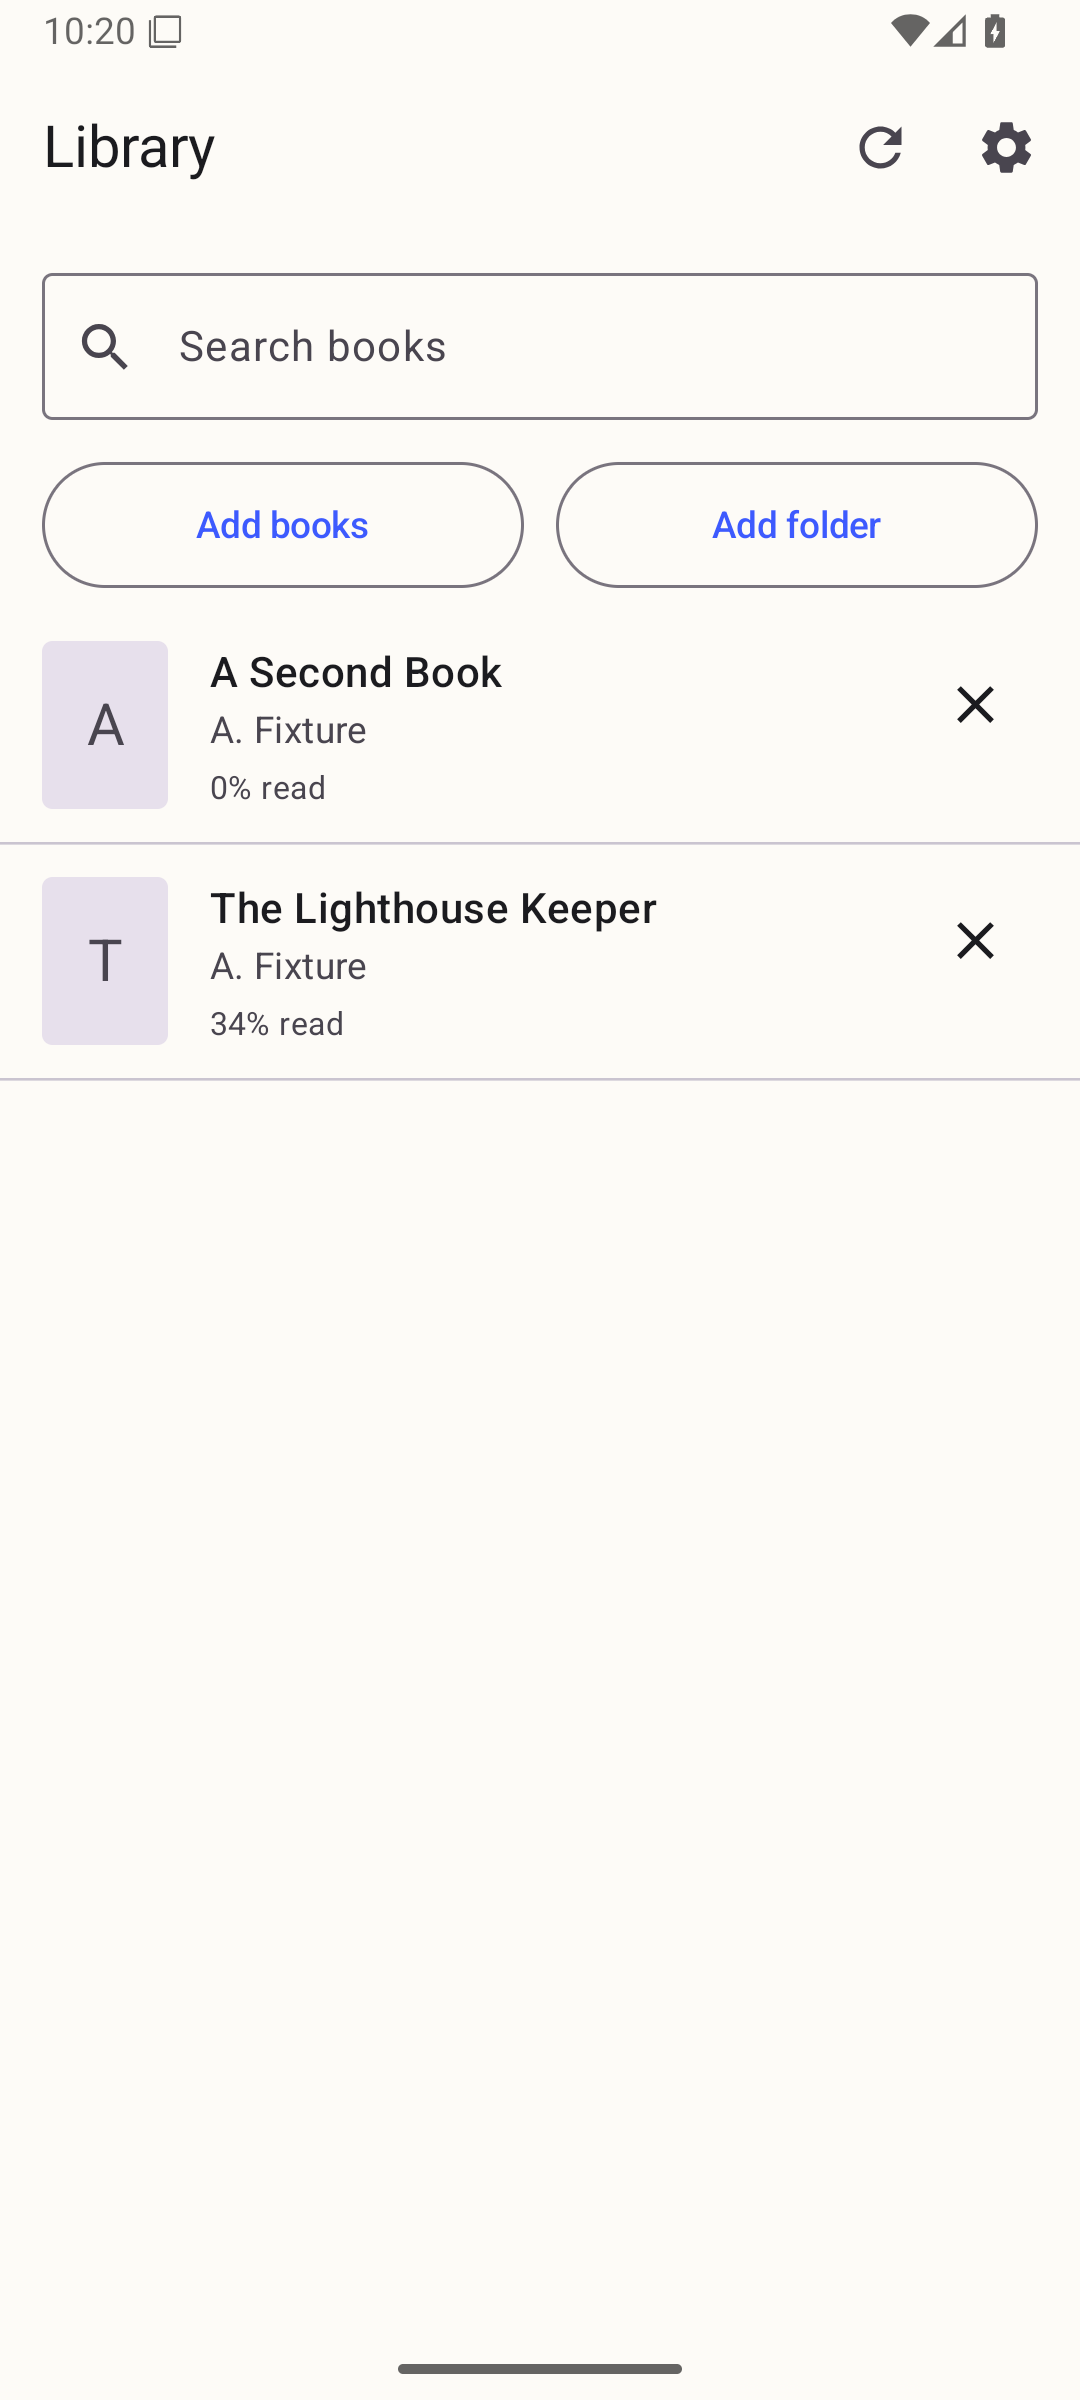
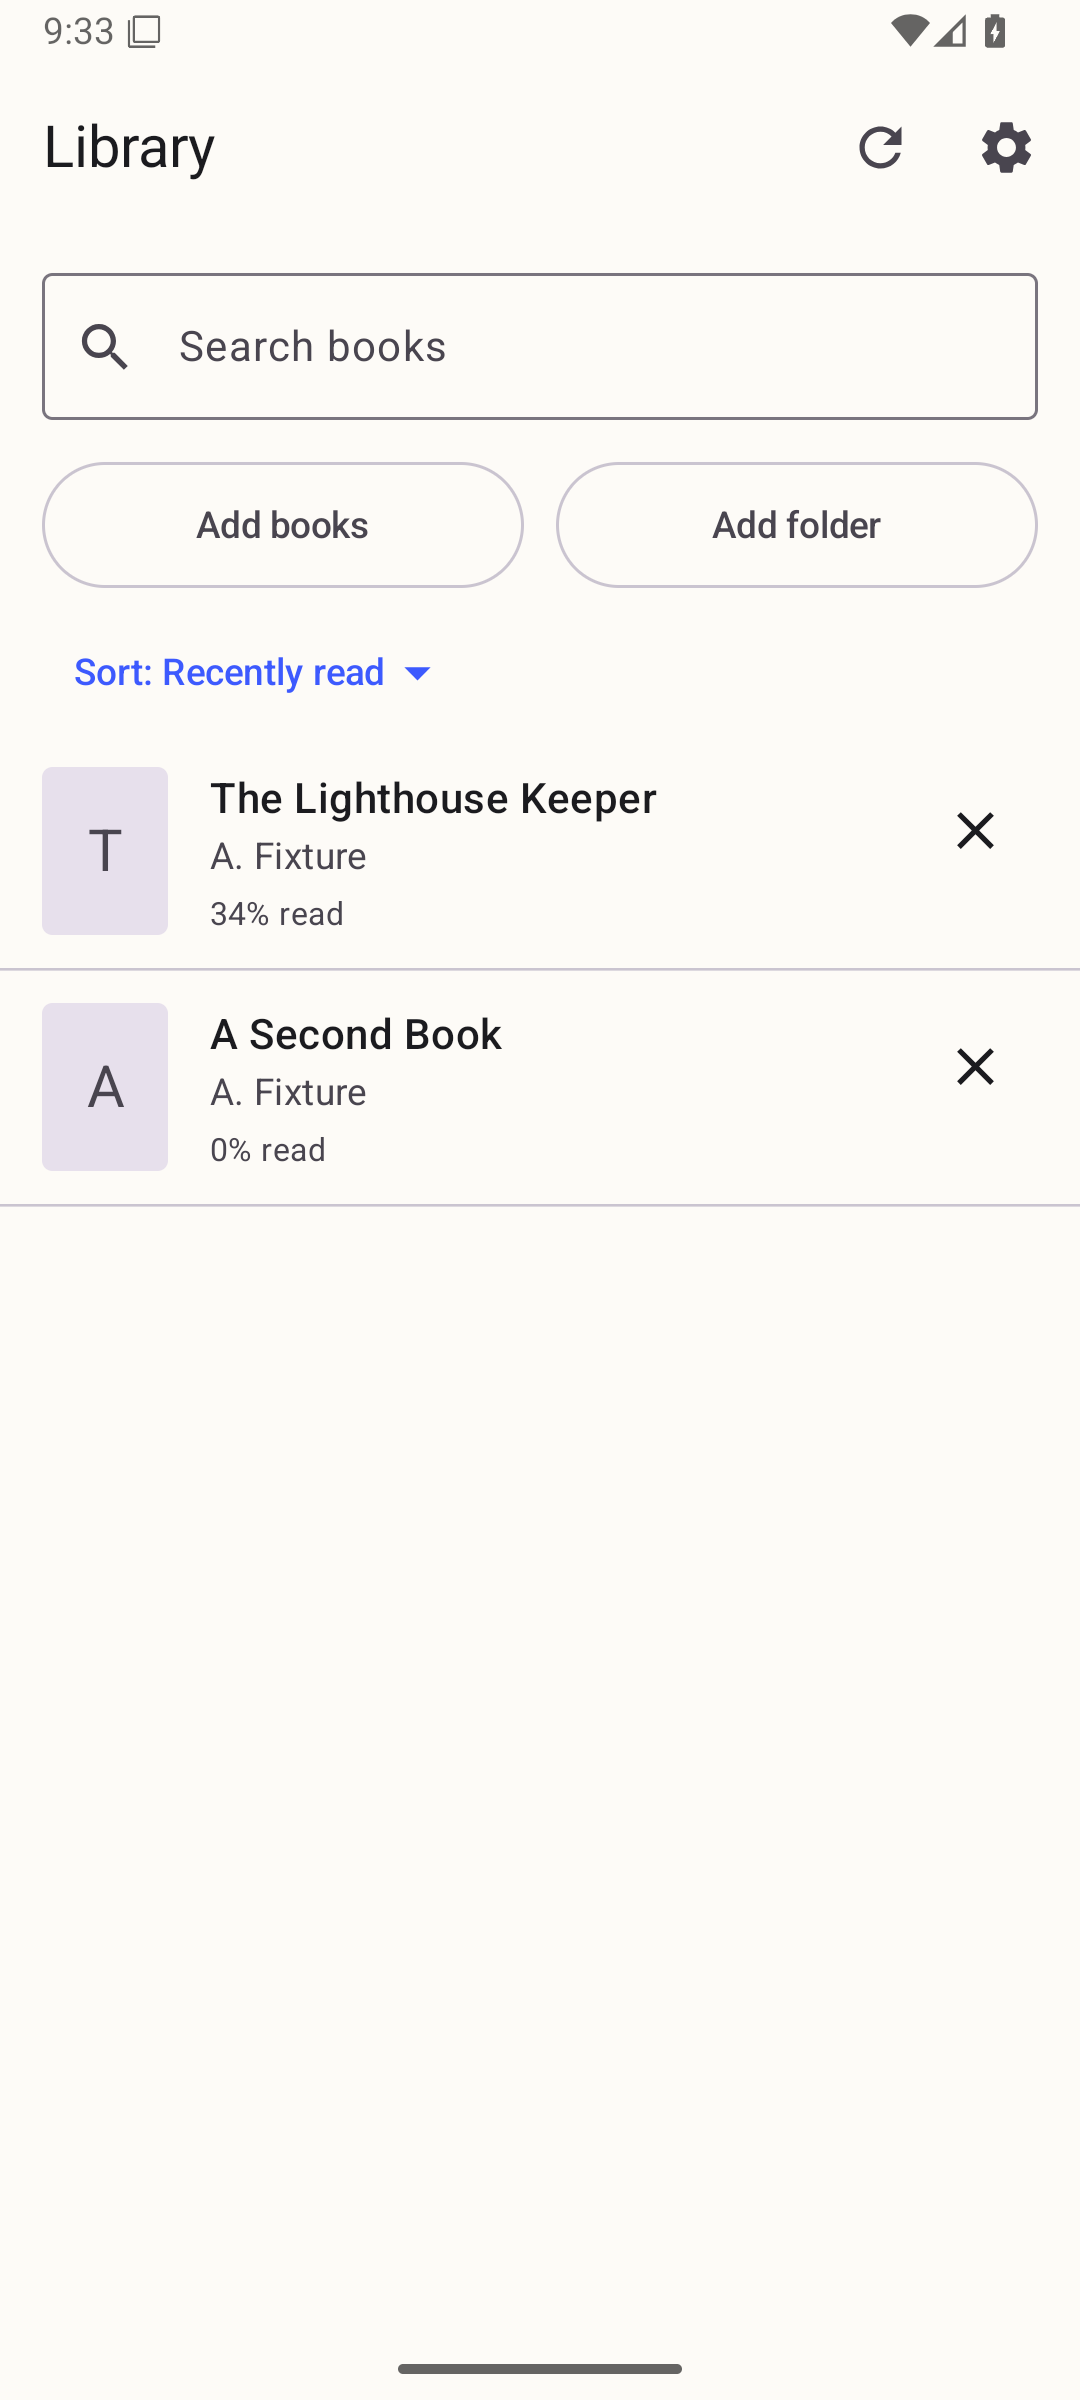
Record the v1.1.0 to v1.2.0 update proof and re-shoot the README
AD-12 on Phone_Mid_API36, from the published v1.1.0 asset to a release-signed
local v1.2.0 built by scripts/release.sh without --publish. A debug build
cannot go over a release-signed install, and there is no published v1.2.0 to
use instead, so this is the closest artifact pair that exists before the merge.

The catalog walks schemaVersion 4 straight to 7 in one load, every setting and
both book ids survive byte-identical, and the two new fields arrive as
"chapterPauseEnabled": true and "libraryOrder": "RECENTLY_READ". The books were
seeded so that title order and recently-added order agree with each other and
disagree with recently-read, so the flipped library is the default doing real
work rather than coinciding with the old order.

The two reader captures differ in 42 of 2400 rows, all of them the status bar
or the gesture bar: every pixel the app draws is unchanged across the update.

docs/screenshots/ re-shot from the v1.2.0 release APK, because the library now
carries a Sort control the v1.1.0 captures could not show.

diff --git a/docs/evidence/56/README.md b/docs/evidence/56/README.md
@@ -1,0 +1,87 @@
+# LEAF607 (#56) — the v1.1.0 → v1.2.0 update proof
+
+Everything here comes from one session on `Phone_Mid_API36` (Android 16 / API
+36, `sdk_gphone64_arm64`, 1080x2400), and from **two real APKs**:
+
+| Side | Artifact |
+| --- | --- |
[2 lines of base64/hex data omitted]
+
+The after side is not the published v1.2.0, because there is no published
+v1.2.0: the collector is unmerged and publishing is the owner's action. It has
+to be release-signed rather than debug, because the published v1.1.0 carries
+the release certificate and a debug APK cannot install over it
+(`INSTALL_FAILED_UPDATE_INCOMPATIBLE`). Same key, same gates, same bytes the
+publish would upload — see the PR's "What is not proven yet".
+
+## The files
+
+| File | What it shows |
+| --- | --- |
+| `01-before-library-v1.1.0-…png` | v1.1.0 seeded: A Second Book 0 %, The Lighthouse Keeper 50 %. **No Sort control** — the library has one fixed order. |
+| `02-before-reader-v1.1.0-…png` | Paused on **He**, violet focus letter, shifted off centre, Chapter Two: The Boat 2 of 3, 50 % read, 250 WPM. |
+| `03-before-settings-cues-v1.1.0-…png` | Dark, Large, Highlight letter on, **Violet**, **Fixed focus letter on**, Guide marks on. |
+| `04-before-settings-rhythm-version-v1.1.0-…png` | Pause strength **Strong**, and `Version 1.1.0 (build 3)`. **No Chapters section.** |
+| `05-after-library-v1.2.0-…png` | The same two books at the same 50 % and 0 %, now **`Sort: Recently read`** and in that order. |
+| `06-after-reader-v1.2.0-…png` | The same word, letter, chapter, percentage and speed, one minute later. |
+| `07-after-settings-cues-v1.2.0-…png` | Every cue setting still where v1.1.0 left it. |
+| `08-after-settings-chapters-v1.2.0-…png` | Strong still selected; the new **Chapters → Pause at chapters** row is **on**; `Version 1.2.0 (build 4)`. |
+| `09-privacy-english-v1.2.0-…png` | The shipping statement, with the crash-report sentence REQ-303 was missing. |
+| `10-privacy-spanish-v1.2.0-…png` | The same statement in Spanish — the copy no gate holds, so it is checked here by eye and by string comparison. |
+| `catalog-before-v1.1.0-…json` | The stored catalog under v1.1.0: `schemaVersion` **4**. |
+| `catalog-after-v1.2.0-…json` | The same catalog after one v1.2.0 load: `schemaVersion` **7**. |
+| `update-in-place-package-state-…txt` | `dumpsys package` either side: unchanged `firstInstallTime`, moved `lastUpdateTime`, new `codePath`, same signer. |
+
+The catalogs were read with `adb root` rather than `run-as`, because both
+builds are release builds and neither is debuggable.
+
+## What the run establishes
+
+**It is an update, not a reinstall.** `firstInstallTime` is the same value on
+both sides while `lastUpdateTime` moves and `codePath` changes, and the signer
+is byte-identical. Nothing was uninstalled and no data was cleared.
+
+**The whole v1.1.0 → v1.2.0 migration chain runs in one load.** The stored
+catalog goes from `schemaVersion` **4** straight to **7**, walking 4 → 5
+(#51's chapter pause), 5 → 6 (#52's library order) and 6 → 7 (#62's structural
+fingerprint) in a single open. #62 proved 4 → 7 resumes; this is the same thing
+with a reader looking at it.
+
+**Nothing the reader chose moved.** Every settings field is identical across
+the two catalogs — `DARK`, `LARGE`, highlight on, focus alignment on, `VIOLET`,
+guide marks on, `STRONG` — as are both book ids, `lastReadBookId`, and the
+reading state's `tokenIndex` 1042, `progressFraction` 0.49952108 and `wpm` 250.
+
+The two reader captures make the same point without a JSON file: they differ in
+**42 of 2400 pixel rows**, and every one of those rows is either the status bar
+(rows 14–47: the clock going 9:25 → 9:26) or the gesture bar (rows 2364–2373).
+Every pixel the app itself draws is unchanged.
+
+**The two new settings arrive at their defaults, not as blanks.** The after
+catalog gains exactly two fields, `"chapterPauseEnabled": true` and
+`"libraryOrder": "RECENTLY_READ"` — which is REQ-208's second clause, and what
+the Chapters row and the `Sort: Recently read` button show on screen.
+
+`libraryOrder` is worth one more sentence, because a default can look right by
+accident. The books were added Lighthouse-first and only Lighthouse was read,
+so title order and recently-added order both put *A Second Book* first — which
+is exactly what v1.1.0 shows. After the update the list is *The Lighthouse
+Keeper* first. That ordering is reachable only from "recently read", so the
+default is doing real work rather than agreeing with the old order by luck.
+
+**#62's fingerprint is written on the first open after the migration, not
+during it.** The migrated reading state carries a new
+`"structuralFingerprint": "zipdir1:bcd1a5bd…"` beside the unchanged
+`bookDigest`, which is AD-18's write-path rule: the migration installs the
+default and the first directory open fills it in. A book only ever gains
+protection.
+
+## What this evidence does not cover
+
+The publish. There is no `v1.2.0` tag, no GitHub Release and no published
+asset, so the four publish-only gates in `scripts/release.sh` — clean tree and
+tag target, tag does not exist, highest published version, and the
+unauthenticated re-download of the uploaded asset — did not run, and the
+"version equals the tag" comparison has nothing to compare against. The PR
+lists these line by line.

diff --git a/README.md b/README.md
@@ -16,7 +16,7 @@ the v1.2.0 release APK.
 
 | Reading | Library | Settings |
 | --- | --- | --- |
-| ![The reader paused mid-sentence: one word large in the middle of the screen with its focus letter coloured, the sentence it came from underneath, chapter, progress and speed below](docs/screenshots/reader-phone-mid-api36.png) | ![The library listing two books with their authors and how far each one has been read](docs/screenshots/library-phone-mid-api36.png) | ![Settings on a fresh install: theme, text size, and the Cues section with Highlight letter on, Fixed focus letter off and Guide marks on](docs/screenshots/settings-phone-mid-api36.png) |
+| ![The reader paused mid-sentence: one word large in the middle of the screen with its focus letter coloured, the sentence it came from underneath, chapter, progress and speed below](docs/screenshots/reader-phone-mid-api36.png) | ![The library listing two books with their authors and how far each one has been read, under a Sort: Recently read button](docs/screenshots/library-phone-mid-api36.png) | ![Settings on a fresh install: theme, text size, and the Cues section with Highlight letter on, Fixed focus letter off and Guide marks on](docs/screenshots/settings-phone-mid-api36.png) |
 
 The first screen of a fresh install offers the two bundled sample texts, so you
 can see the stream before you go looking for a book:

diff --git a/docs/release-notes/v1.2.0.md b/docs/release-notes/v1.2.0.md
@@ -1,4 +1,4 @@
-fastReader 1.2.0 (versionCode 4) — Android 8.0+, ~SIZE_MB MB.
+fastReader 1.2.0 (versionCode 4) — Android 8.0+, ~2.0 MB.
 
 Install it over 1.1.0; do not uninstall first. Your books, your place in each of
 them and your settings are kept, and the two new settings start at the values
